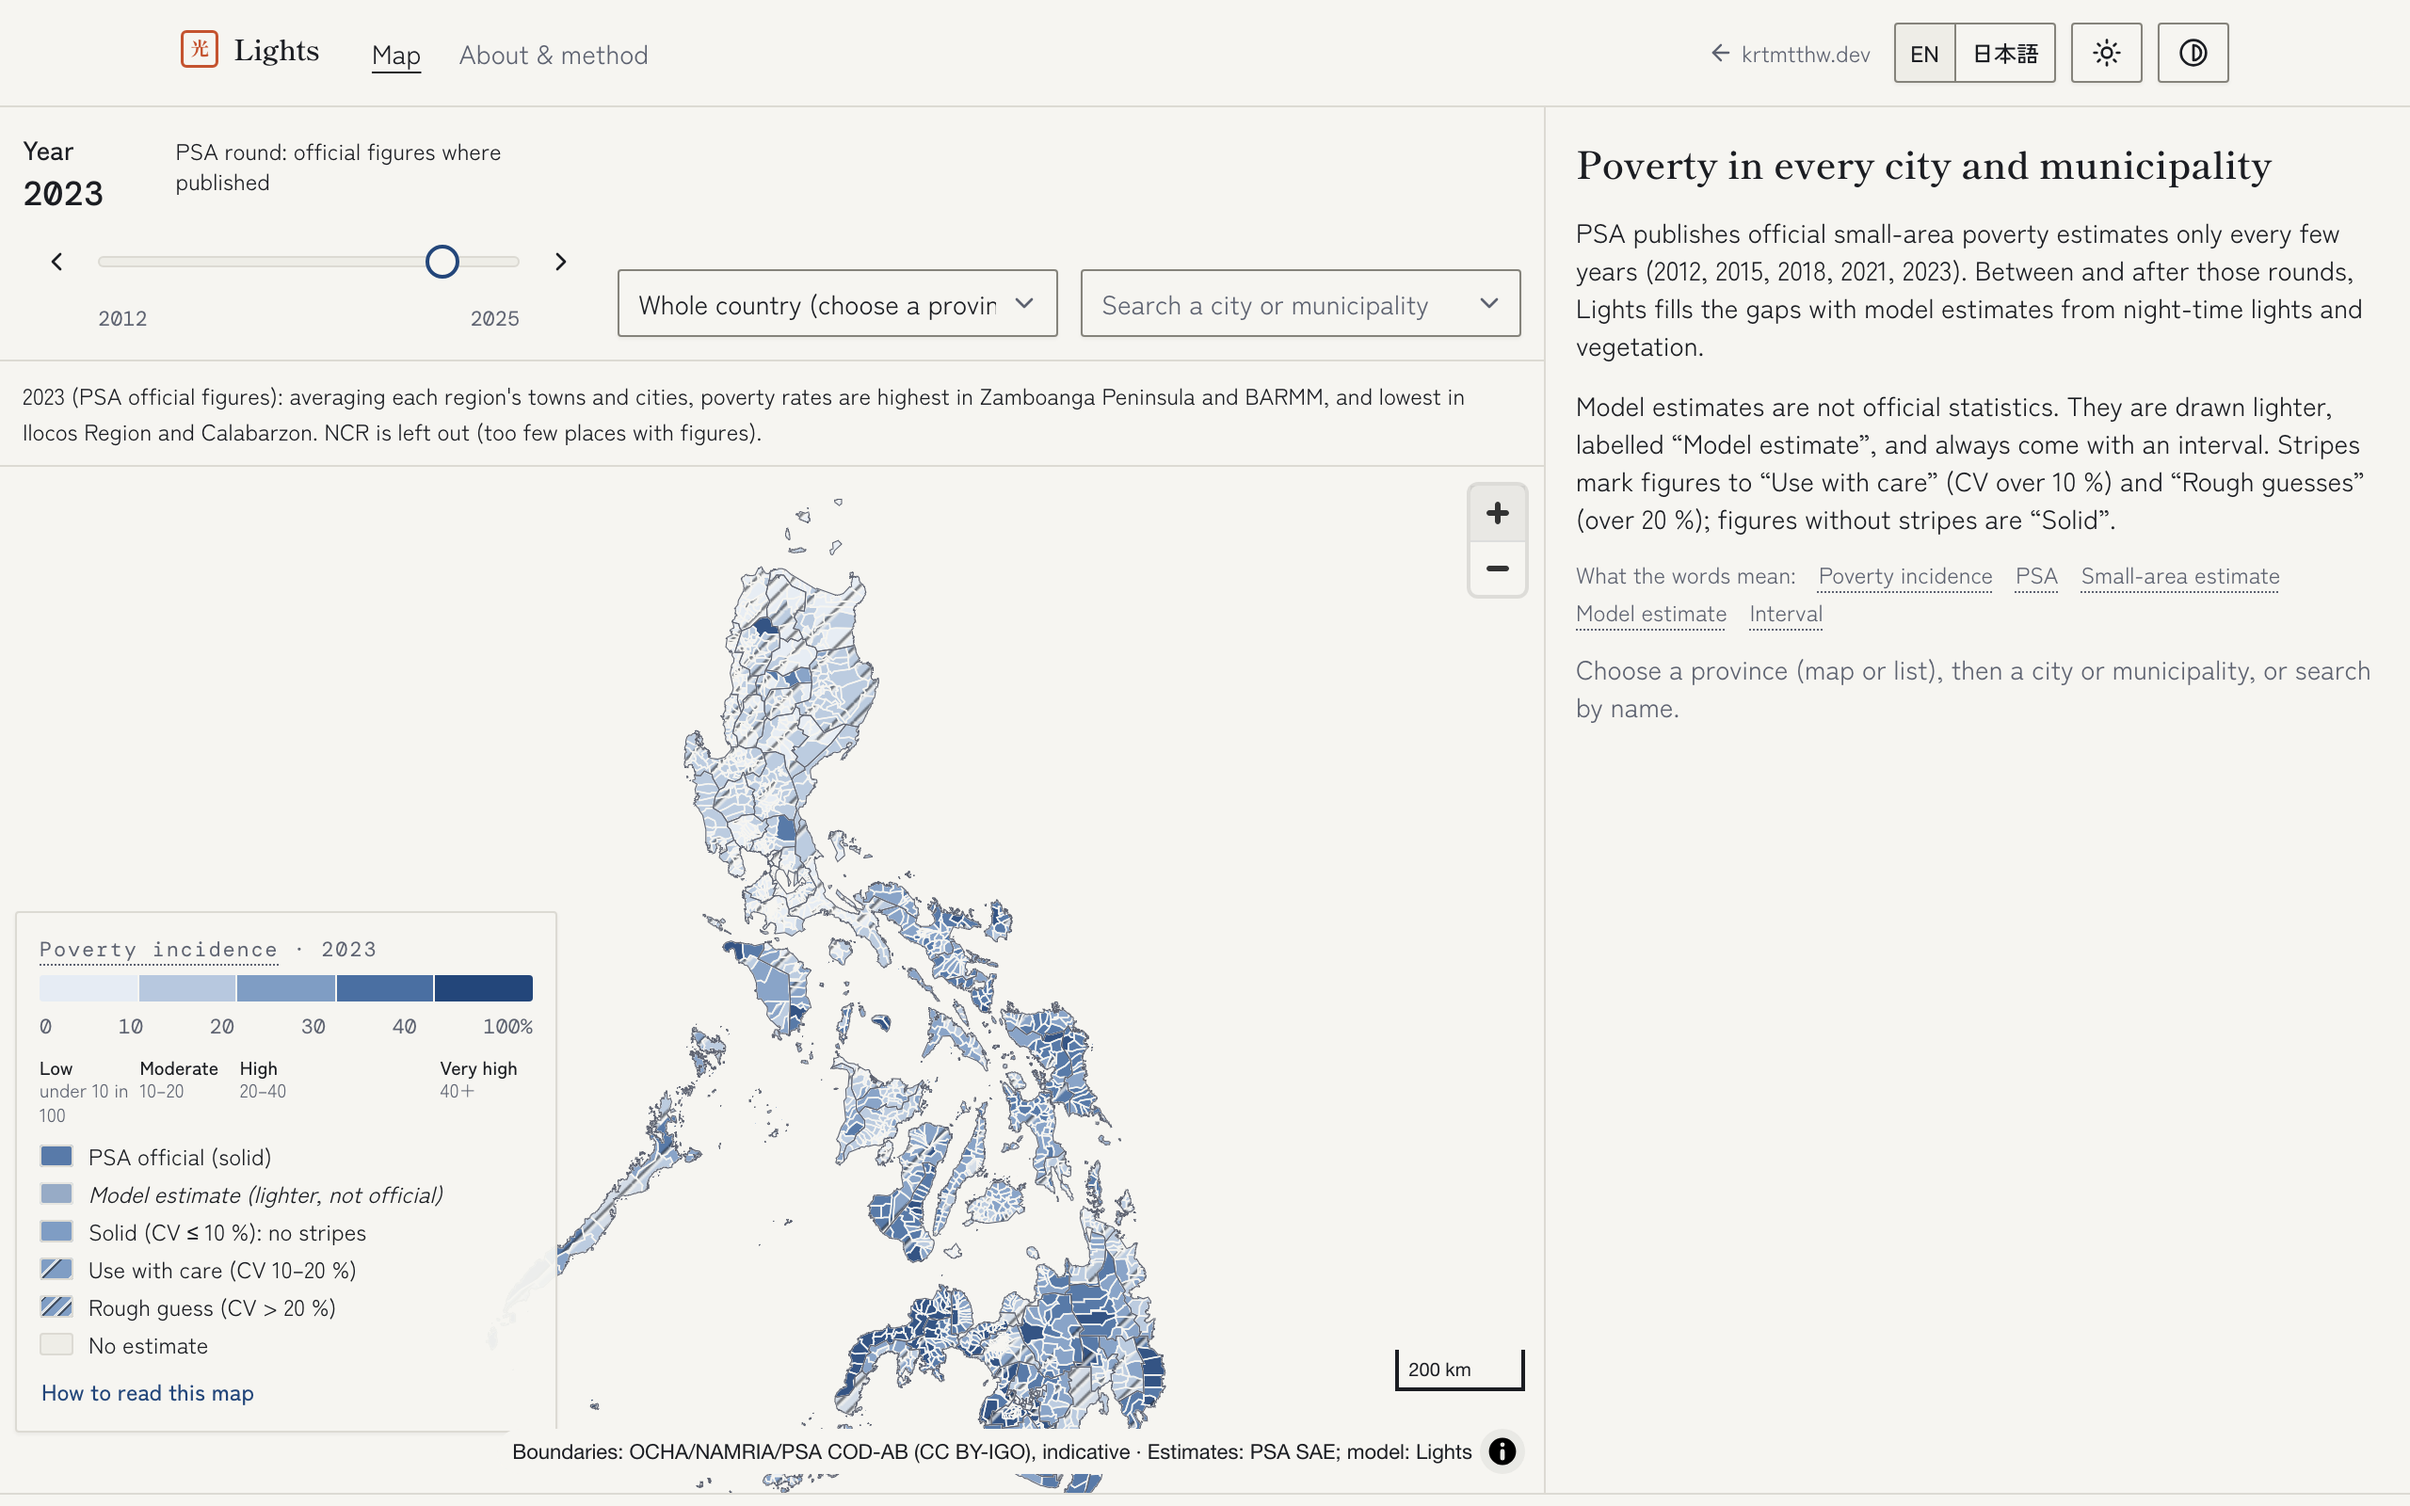
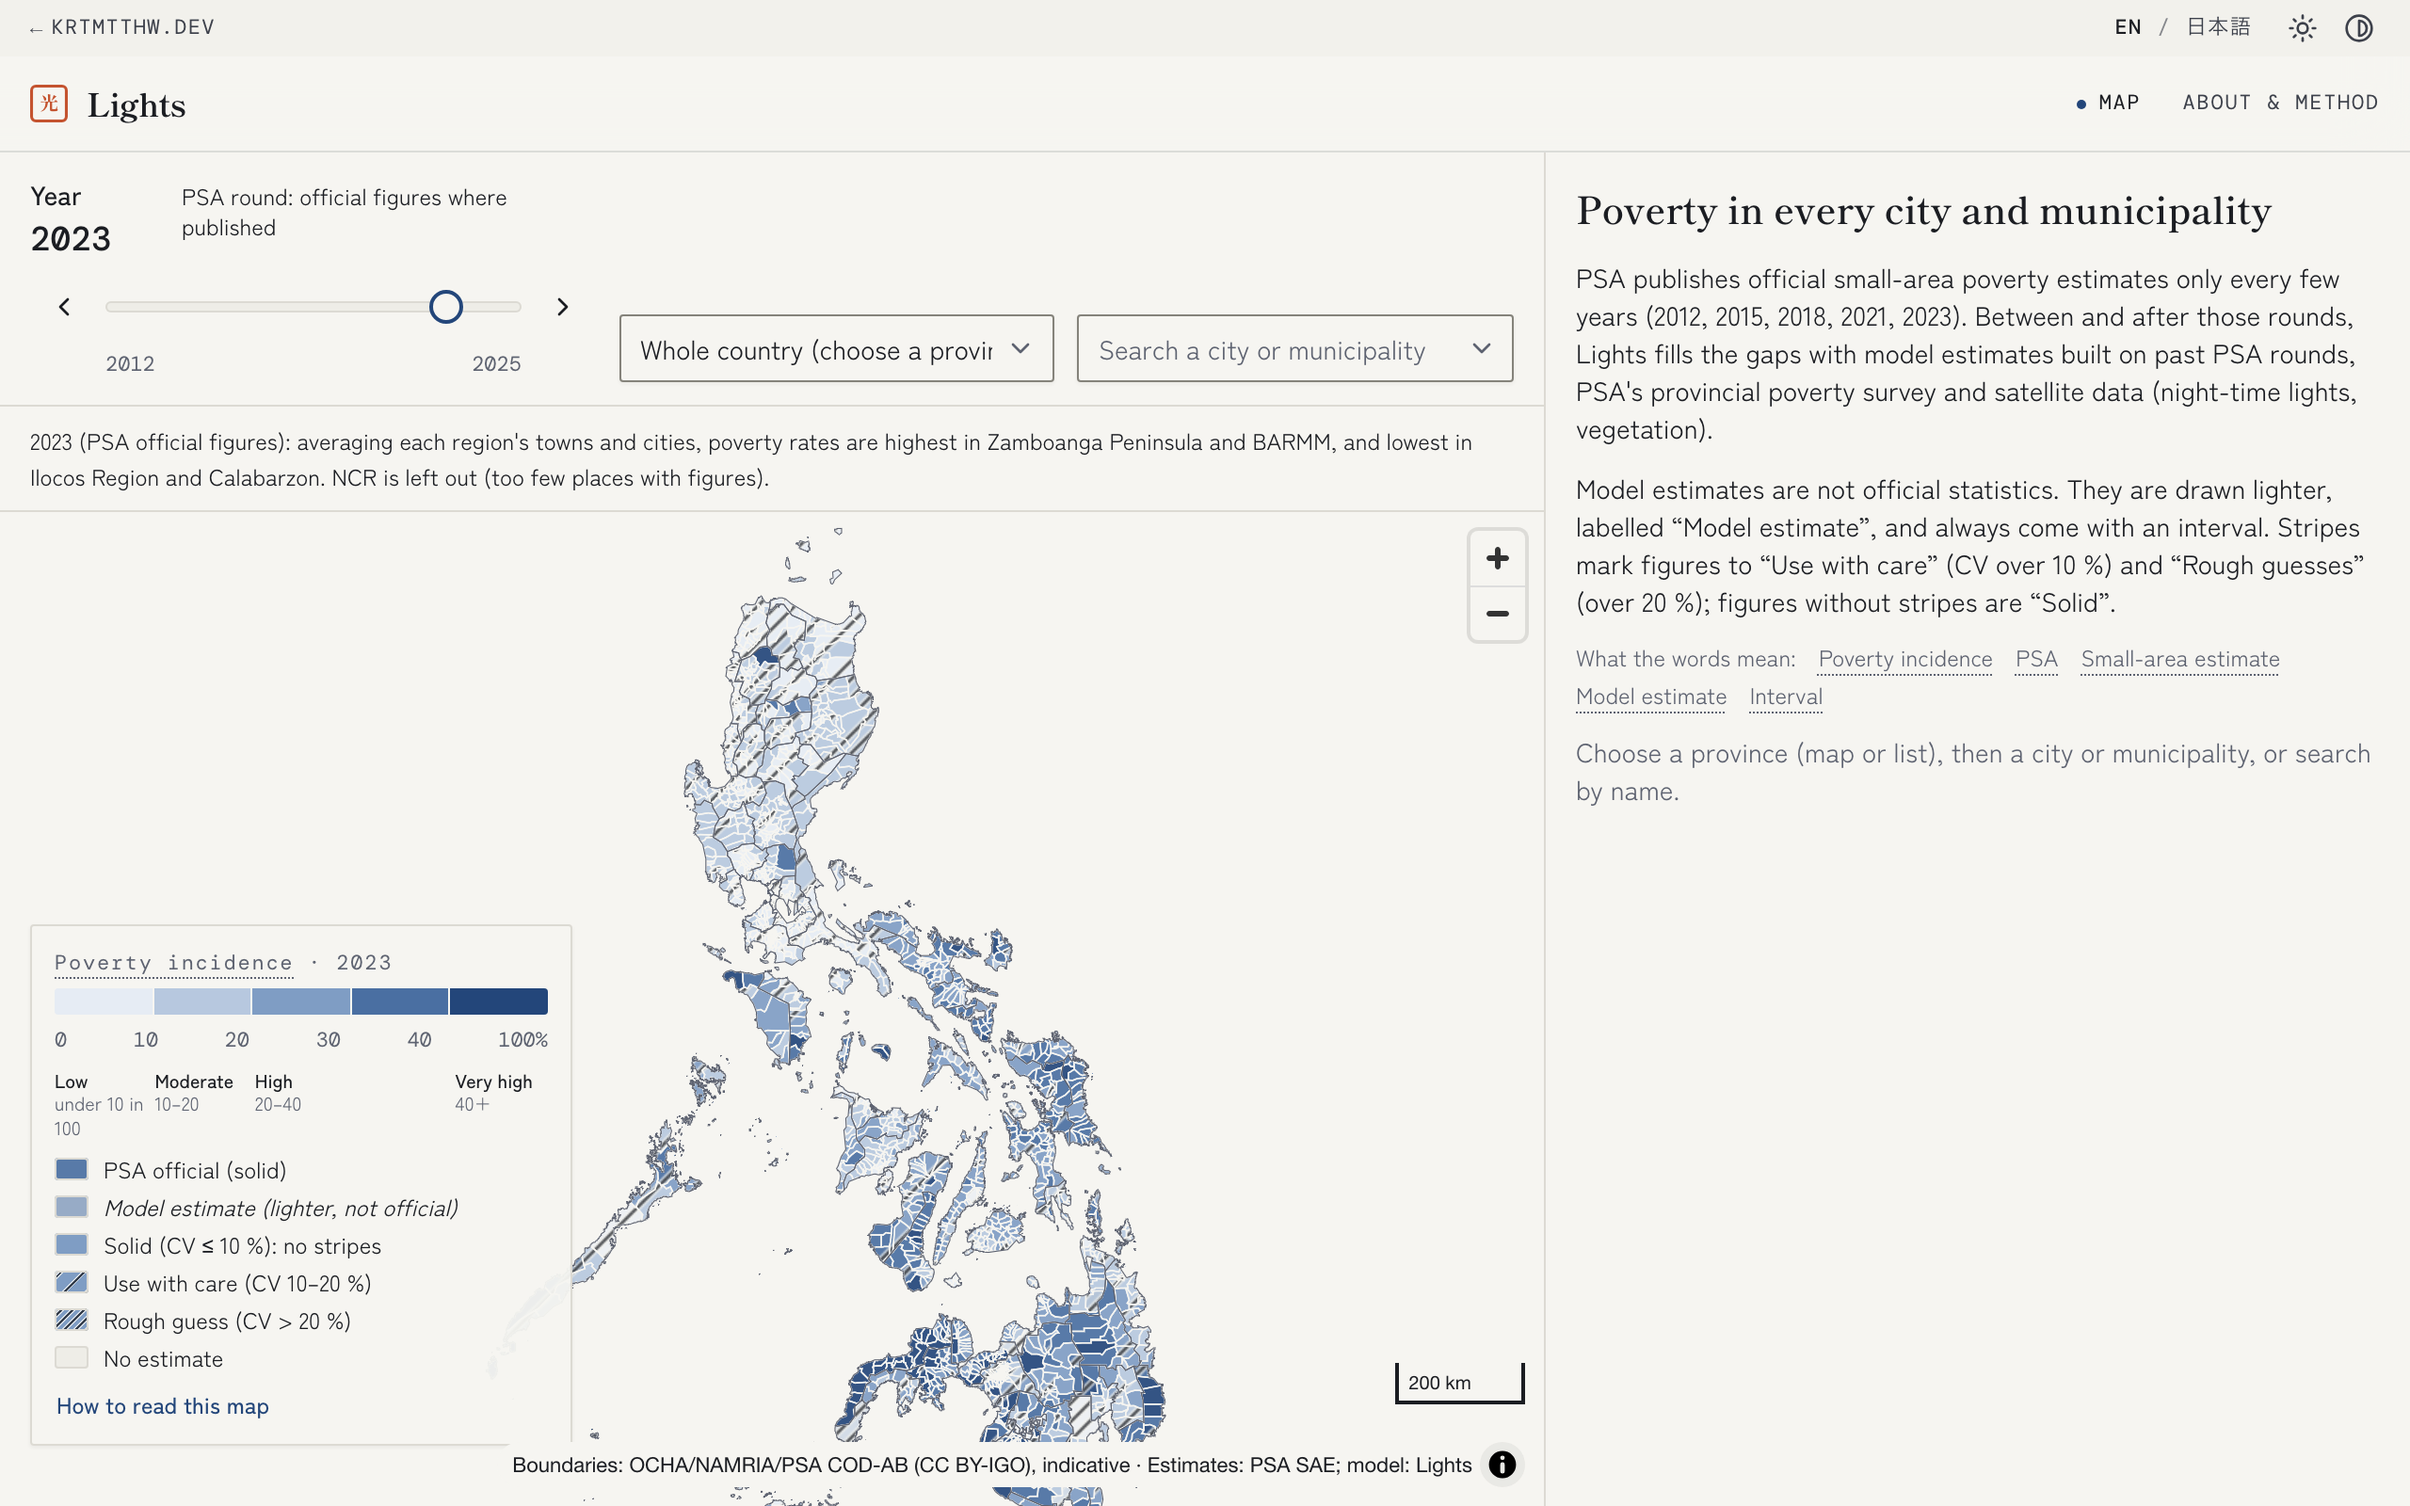
Fresh Replay and Lights screenshots; Kessan Lens shows its prototype design
Retake the light and dark shots of Replay (Haiyan at landfall, wind spiral in
frame) and Lights (whole-country view with hatching, first-visit guide closed)
from the live apps after Akari 0.9.0 and the unified header. Kessan Lens, which
is shelved, now shows static renders of its prototype company page, captioned
as a design with illustrative figures and a fictional company.

diff --git a/tests/smoke.spec.ts b/tests/smoke.spec.ts
@@ -332,8 +332,10 @@ test.describe("home page", () => {
         expect(h).toBe(href)
       expect((await request.get(href)).status()).toBe(200)
     }
-    for (const i of [0, 1]) await expect(rows.nth(i).locator('[data-picture="shot"] img')).toHaveCount(2)
-    await expect(rows.nth(2).locator('[data-picture="placeholder"]')).toContainText("Screenshot when it goes live.")
+    for (const i of [0, 1, 2]) await expect(rows.nth(i).locator('[data-picture="shot"] img')).toHaveCount(2)
+    // Kessan Lens is shelved: its picture is the prototype design, captioned as such.
+    await expect(rows.nth(2).locator("figcaption")).toContainText("Prototype design (illustrative figures")
+    await expect(rows.nth(2).locator("img").first()).toHaveAttribute("alt", /^Prototype design of Kessan Lens/)
     await expect(rows.nth(3).locator('[data-picture="live"] astro-island')).toHaveCount(1)
     await expect(rows.nth(3)).toContainText("A live Akari component: switch the trend.")
     await expect(page.locator("#projects astro-island")).toHaveCount(1)
